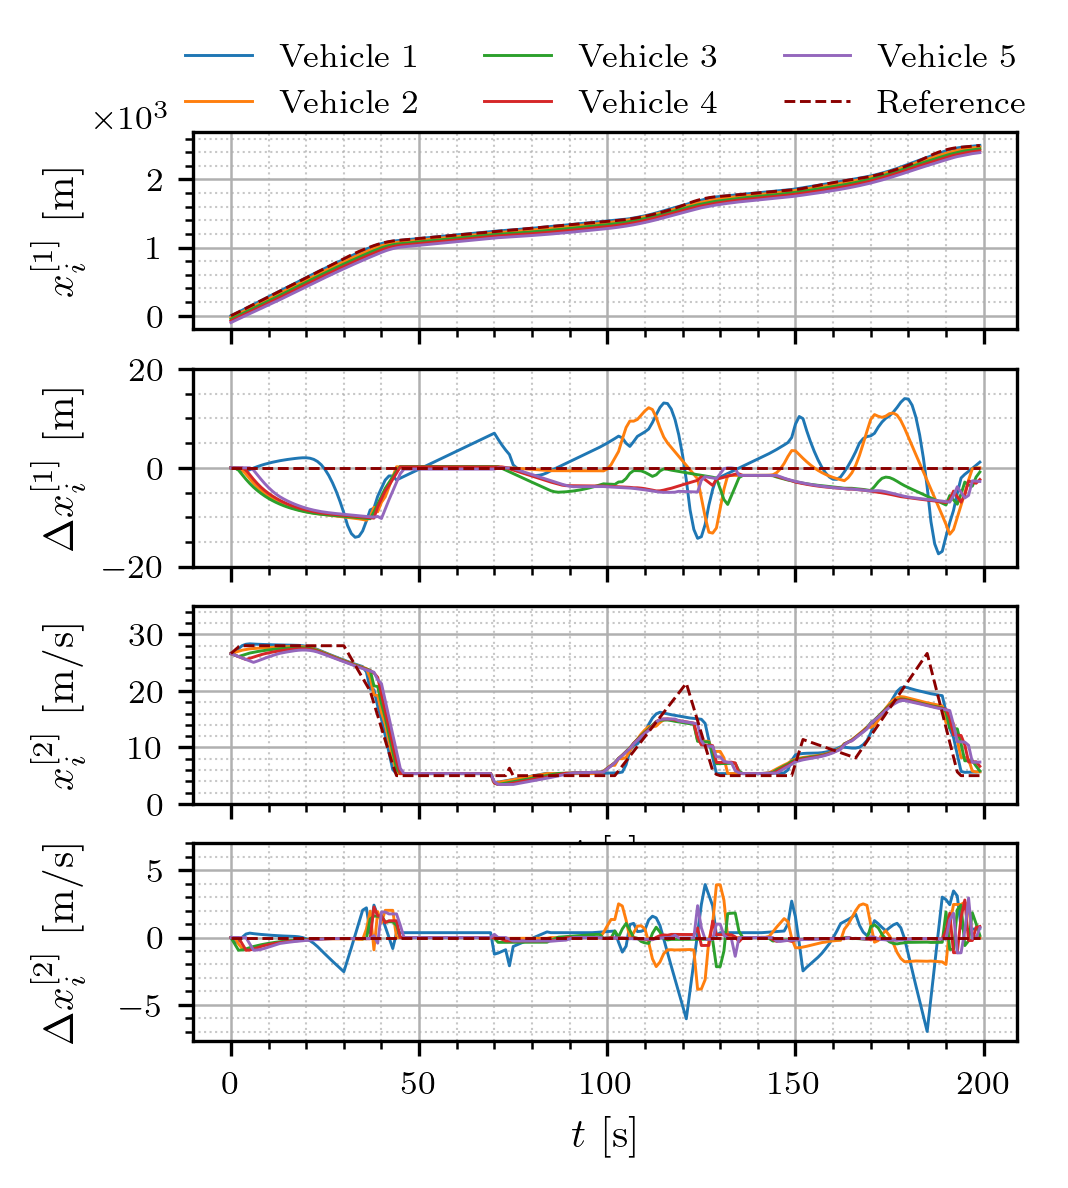
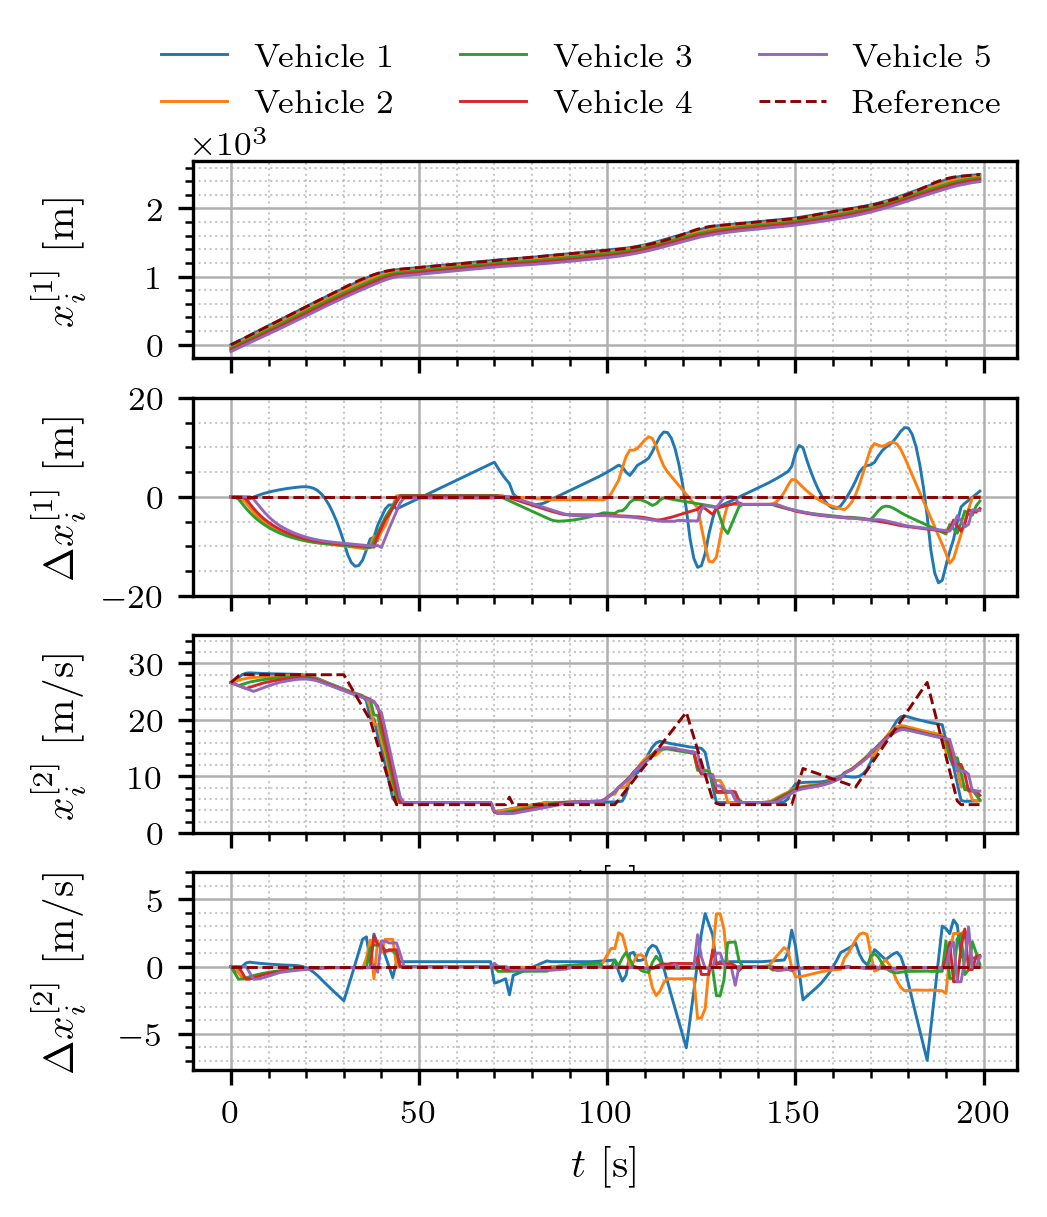
Update legend position

diff --git a/visualisation/plot_eval_trajectories_both.py b/visualisation/plot_eval_trajectories_both.py
@@ -109,7 +109,7 @@ ax[3].plot(np.zeros(t_end), linewidth=linewidth, linestyle="--", color="darkred"
 ax[0].legend(
     [f"Vehicle {i+1}" for i in range(n_agents)] + ["Reference"],
     loc="upper center",
-    bbox_to_anchor=(0.5, 1.6),
+    bbox_to_anchor=(0.47, 1.75),
     fontsize=8,
     frameon=False,
     fancybox=True,
@@ -135,8 +135,8 @@ ax[0].set_yticks([0, 1000, 2000])
 ax[0].set_yticklabels([0, 1, 2])
 ax[0].set_ylabel("$x^{[1]}_i$ [m]")
 ax[0].text(
-    -0.025,
-    1,
+    0.095,
+    1.02,
     r"$\times 10^3$",
     transform=ax[0].transAxes,
     ha="right",
